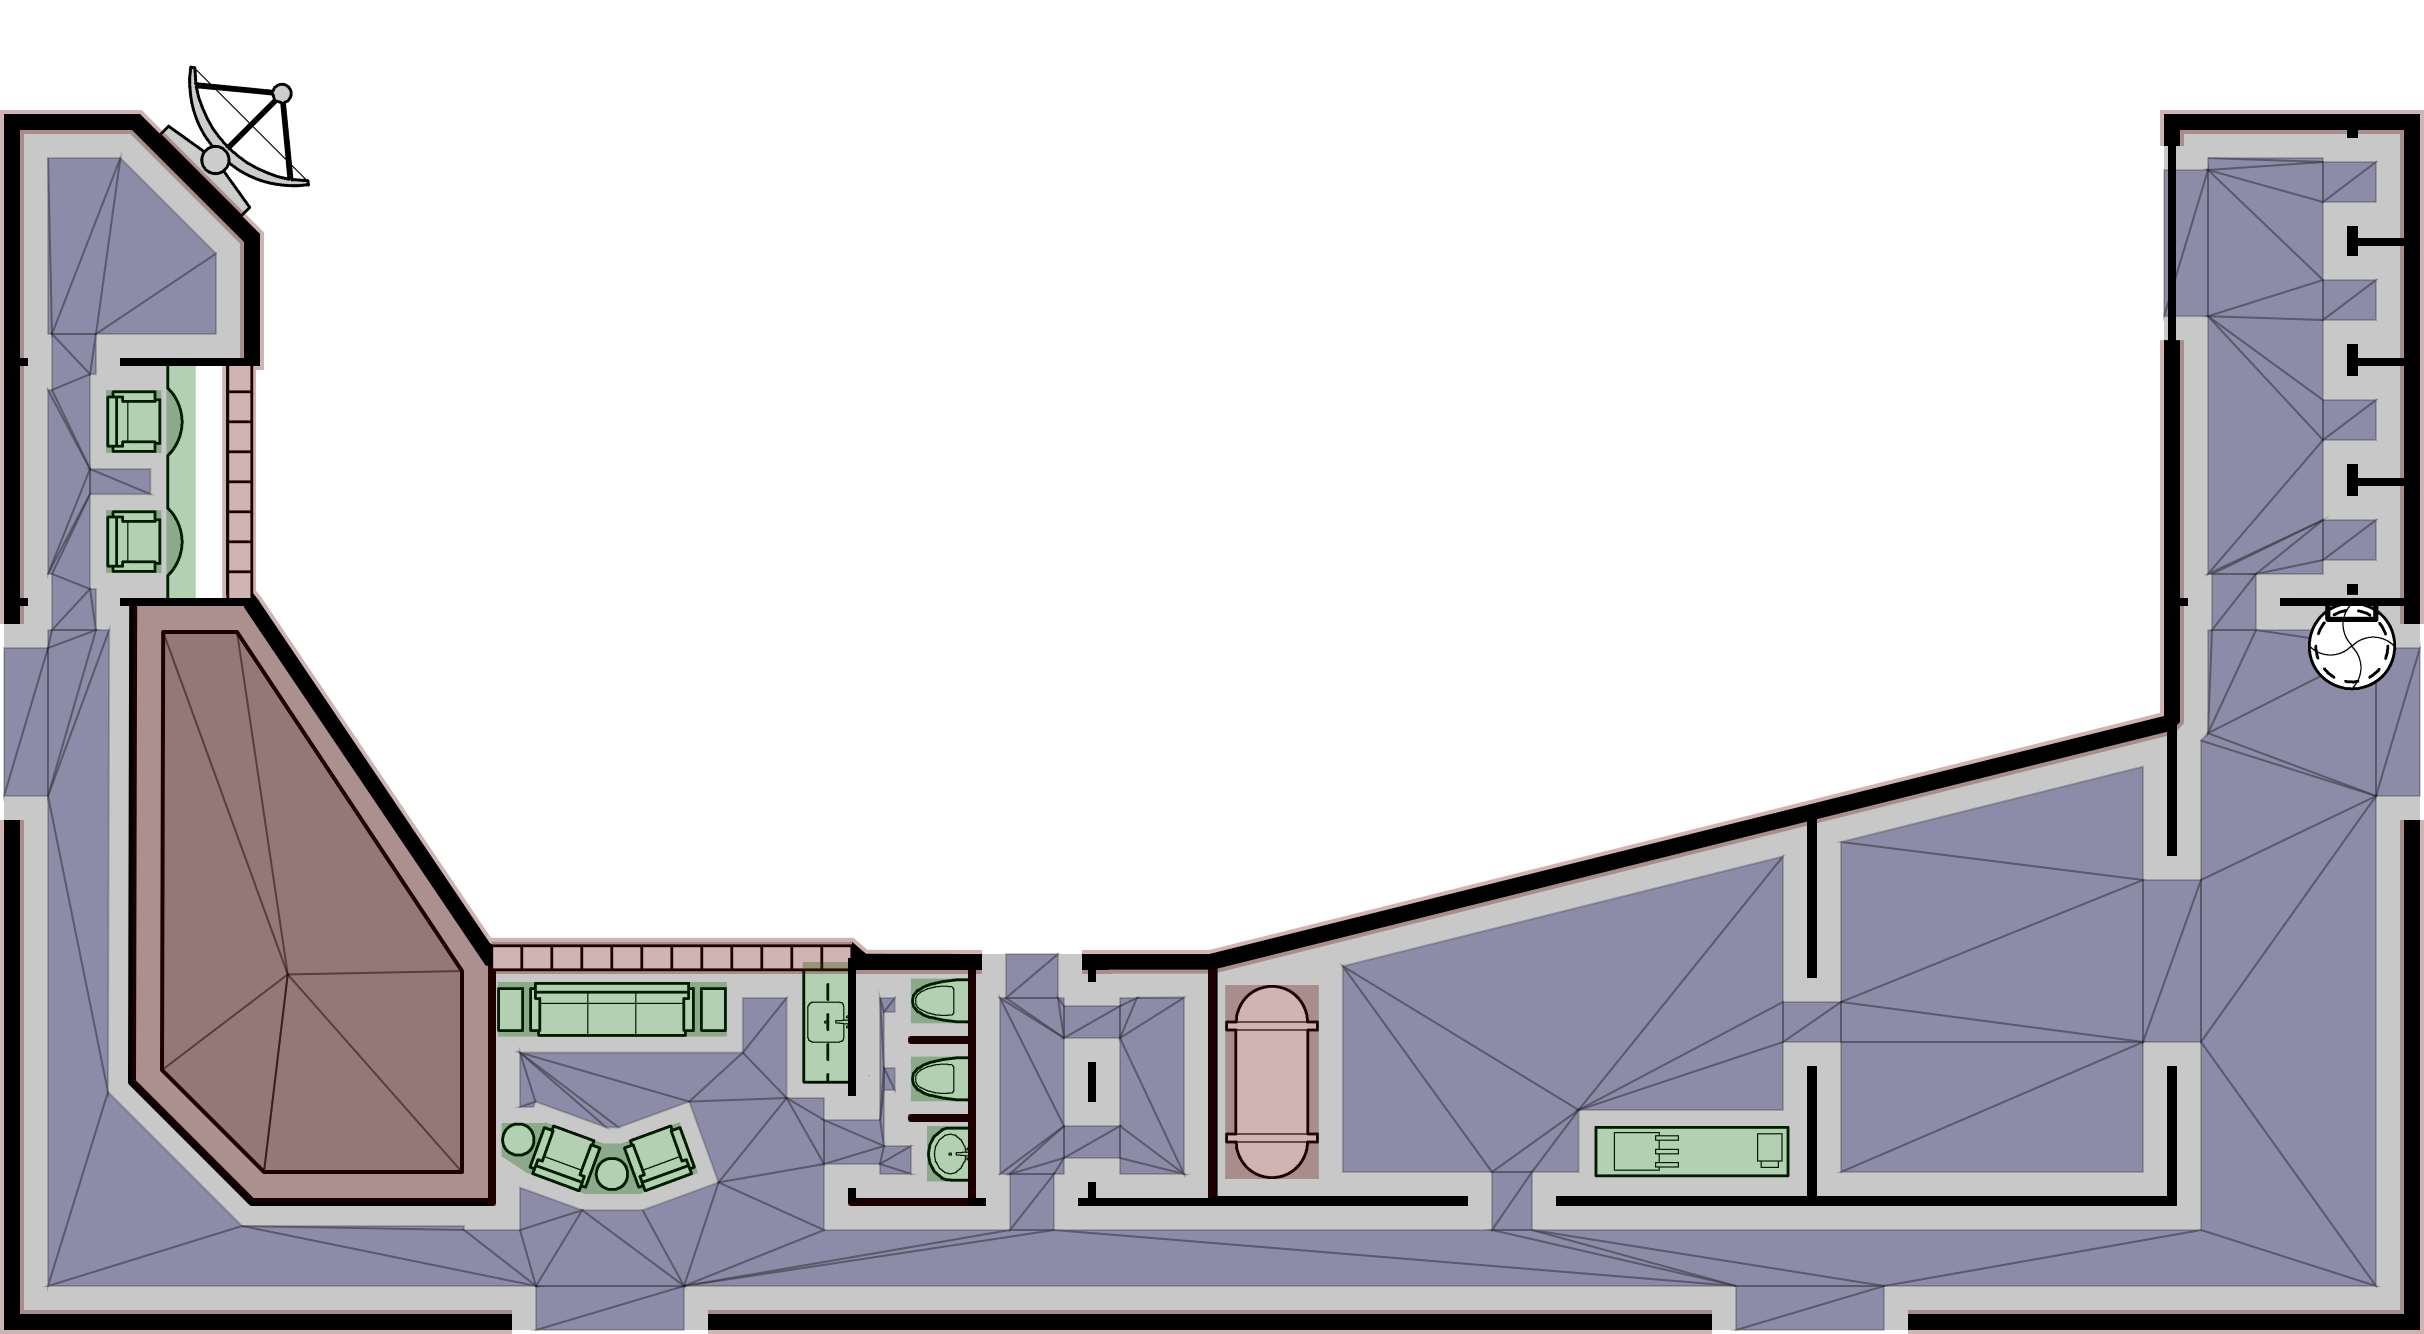
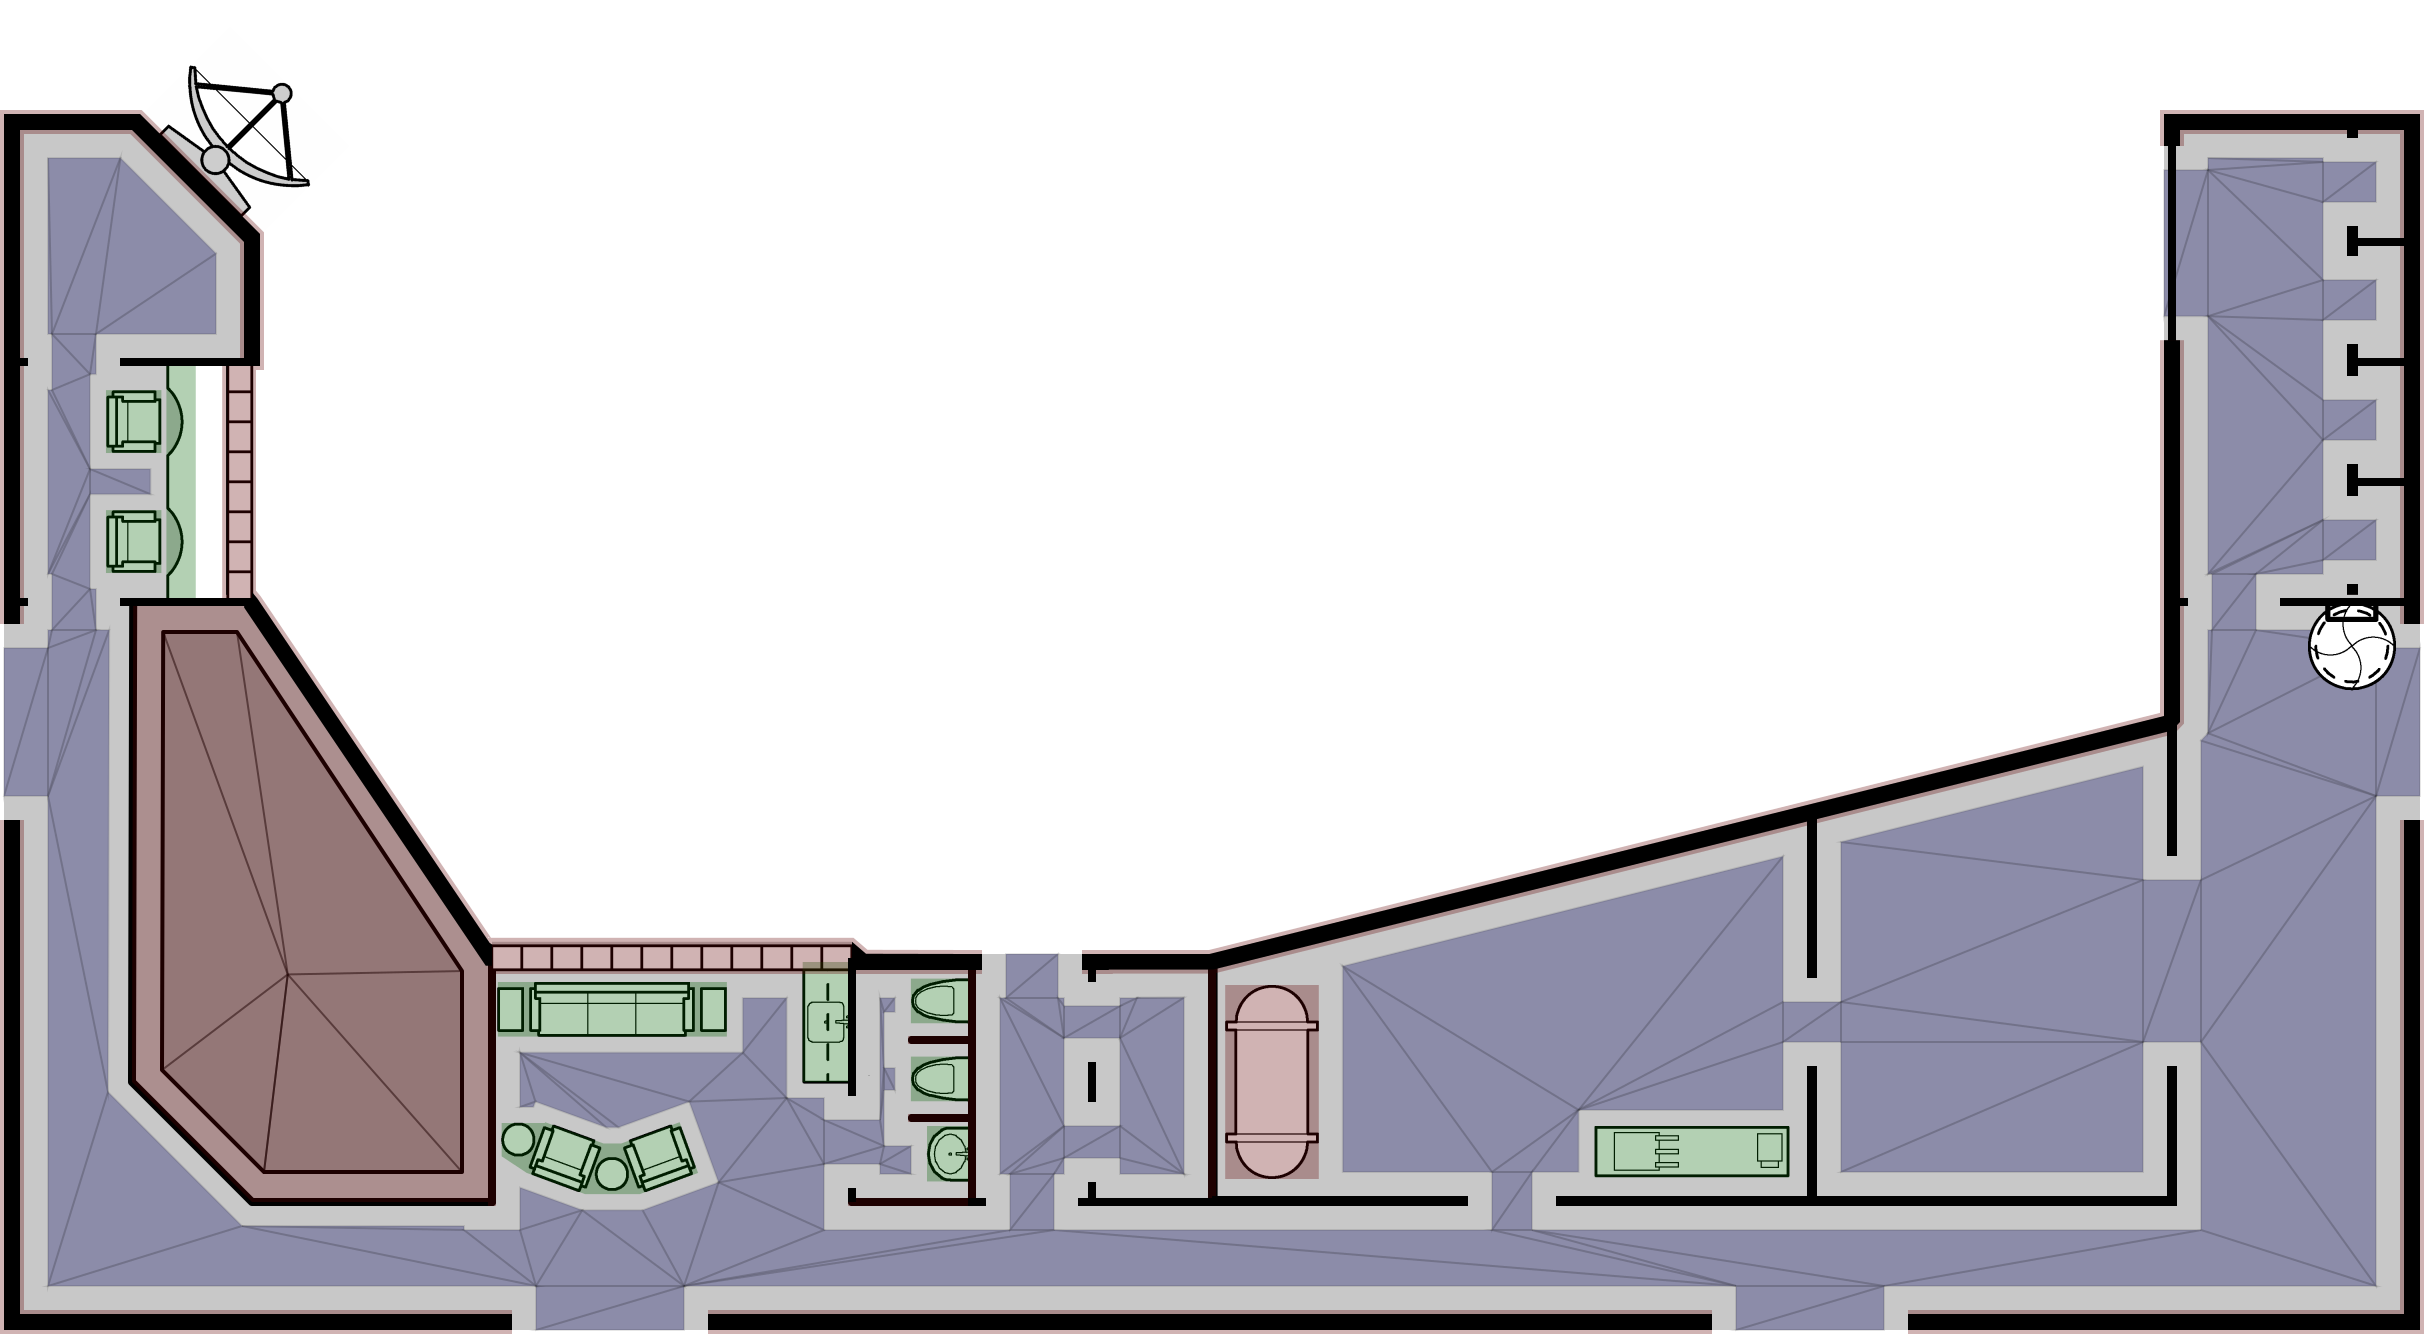
lighter nav stroke

diff --git a/projects/geomorph/geomorph.render.js b/projects/geomorph/geomorph.render.js
@@ -23,6 +23,7 @@ export async function renderGeomorph(
     labels = false,
     floorColor = 'rgba(200, 200, 200, 1)',
     navColor = 'rgba(0, 0, 100, 0.3)',
+    obsColor = 'rgba(0, 100, 0, 0.3)',
   },
 ) {
   const hullSym = lookup[layout.items[0].key];
@@ -46,7 +47,7 @@ export async function renderGeomorph(
   ctxt.fillStyle = navColor;
   fillPolygon(ctxt, layout.navPoly);
   if (navTris) {
-    ctxt.strokeStyle = 'rgba(0, 0, 0, 0.2)';
+    ctxt.strokeStyle = 'rgba(0, 0, 0, 0.1)';
     const decomps = layout.navPoly.flatMap(x => x.qualityTriangulate());
     decomps.forEach(decomp => drawTriangulation(ctxt, decomp));
   }
@@ -86,7 +87,7 @@ export async function renderGeomorph(
   //#region overlay
   const { singles, obstacles, walls } = layout.groups;
 
-  ctxt.fillStyle = 'rgba(0, 100, 0, 0.3)';
+  ctxt.fillStyle = obsColor;
   obsBounds && fillPolygon(ctxt, obstacles);
   ctxt.fillStyle = 'rgba(100, 0, 0, 0.3)';
   wallBounds && fillPolygon(ctxt, walls);

diff --git a/projects/geomorph/geomorph.d.ts b/projects/geomorph/geomorph.d.ts
@@ -12,6 +12,7 @@ declare namespace Geomorph {
     labels?: boolean;
     floorColor?: string;
     navColor?: string;
+    obsColor?: string;
   }
 
   /** Generated via `yarn render-layout` */
